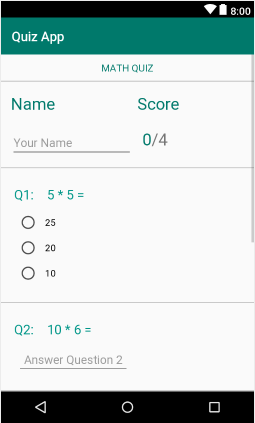
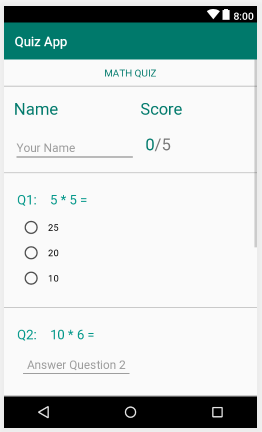
push update code

diff --git a/app/src/main/java/com/example/anrdoid/quizapp/MainActivity.java b/app/src/main/java/com/example/anrdoid/quizapp/MainActivity.java
@@ -36,19 +36,11 @@ public class MainActivity extends AppCompatActivity {
         /*
         * Question 1
          */
-        RadioButton Answer_Q1_10_RadioButton = (RadioButton) findViewById(R.id.answer_Q1_10);
-        boolean isAnswer_Q1_10 = Answer_Q1_10_RadioButton.isChecked();
-
-        RadioButton Answer_Q1_20_RadioButton = (RadioButton) findViewById(R.id.answer_Q1_20);
-        boolean isAnswer_Q1_20 = Answer_Q1_20_RadioButton.isChecked();
-
         RadioButton Answer_Q1_25_RadioButton = (RadioButton) findViewById(R.id.answer_Q1_25);
         boolean isAnswer_Q1_25 = Answer_Q1_25_RadioButton.isChecked();
 
         if (isAnswer_Q1_25) {
             Score += 1;
-        } else {
-            Score += 0;
         }
 
         /*
@@ -78,10 +70,8 @@ public class MainActivity extends AppCompatActivity {
         CheckBox Answer_Q3_3_CheckBox = (CheckBox) findViewById(R.id.answer_Q3_3);
         boolean isAnswerQ3_3 = Answer_Q3_3_CheckBox.isChecked();
 
-        if (isAnswerQ3_1 && !isAnswerQ3_2 && !isAnswerQ3_3) {
-            Score += 1;
-        } else {
-            Score += 0;
+        if (isAnswerQ3_1 && !isAnswerQ3_2 && isAnswerQ3_3) {
+            Score += 2;
         }
 
         /*
@@ -112,10 +102,10 @@ public class MainActivity extends AppCompatActivity {
 
 
     private void displayScoreMessage(String name, int TotalScore) {
-        if (TotalScore == 4) {
-            Toast.makeText(this, "Congratulations ! :) " + name + " ,  Your Score: " + TotalScore + " /4", Toast.LENGTH_SHORT).show();
+        if (TotalScore == 5) {
+            Toast.makeText(this, "Congratulations ! :) " + name + " ,  Your Score: " + TotalScore + " /5", Toast.LENGTH_SHORT).show();
         } else {
-            Toast.makeText(this, "You're Lost :( " + name + " , Your Score: " + TotalScore + " /4", Toast.LENGTH_SHORT).show();
+            Toast.makeText(this, "You're Lost :( " + name + " , Your Score: " + TotalScore + " /5", Toast.LENGTH_SHORT).show();
         }
     }
 
